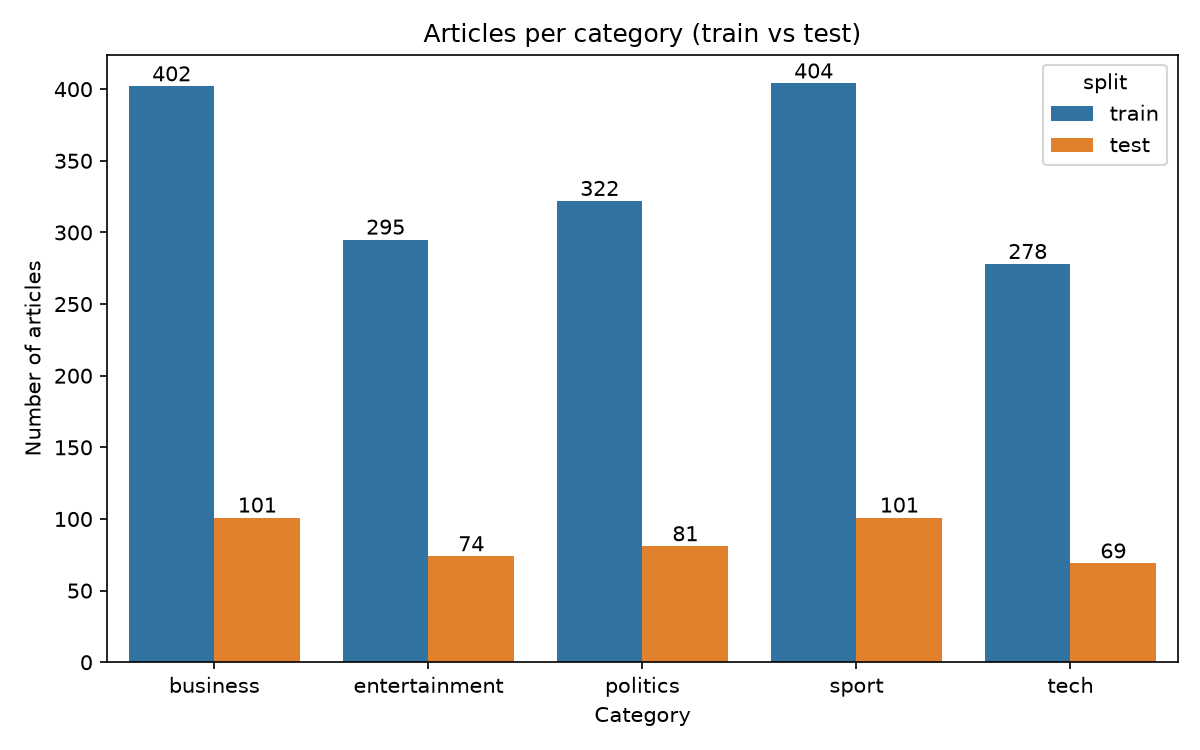
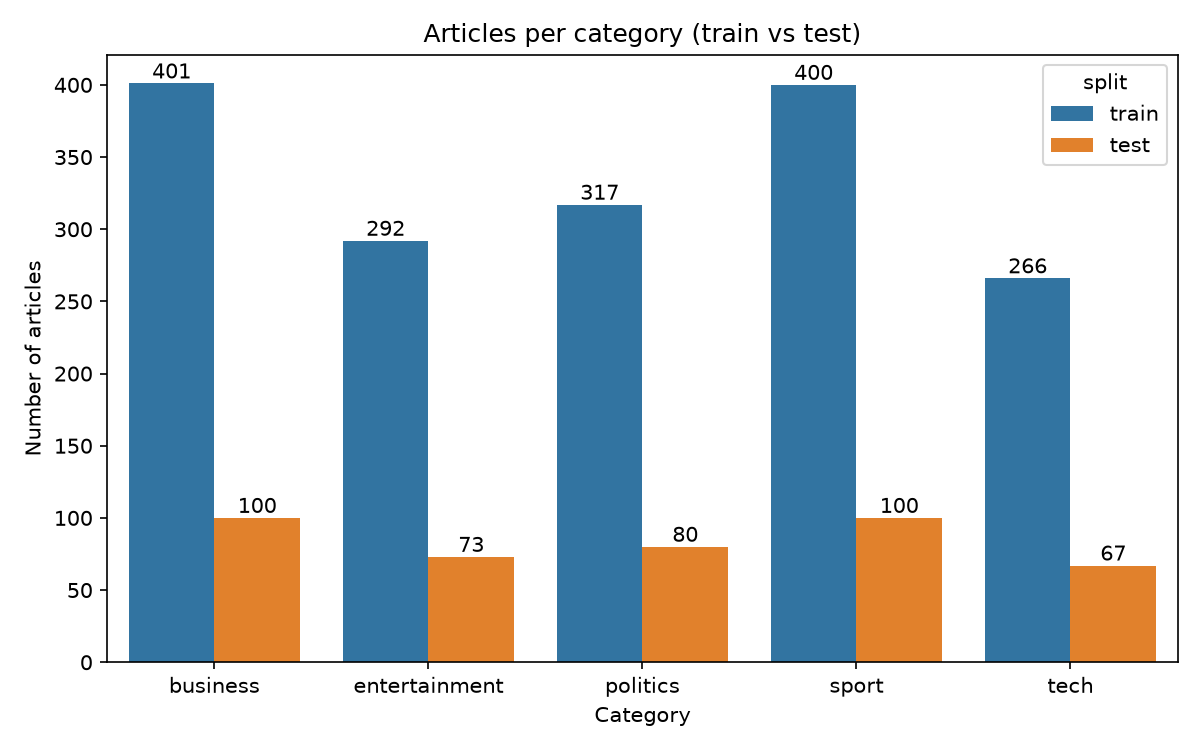
Step 2: Loader - also remove same-category, same-title near-duplicates
Rebuilt data/articles.csv, tokens.pkl and index.pkl (2,225 -> 2,096 articles)
and updated the numbers for Steps 2-5 in PROGRESS.md and viva_notes.md.

diff --git a/src/loader.py b/src/loader.py
@@ -45,13 +45,22 @@ def load_raw(data_dir: str = "data/bbc") -> pd.DataFrame:
 
 
 def remove_duplicates(df: pd.DataFrame) -> pd.DataFrame:
-    """Drop articles whose title and text exactly match an earlier article; print counts before and after."""
+    """Drop repeated articles, keeping the first copy; print counts per category before and after.
+
+    Two kinds of duplicate are removed:
+    1. exact copies: same title AND same text;
+    2. near-copies: same category AND same title. In the BBC data these are earlier/later versions of the
+       same story (an extra paragraph, reworded sentences), so exact matching alone misses them.
+    """
     before = df["category"].value_counts().sort_index()
-    deduped = df.drop_duplicates(subset=["title", "text"], keep="first").reset_index(drop=True)
+    exact = df.drop_duplicates(subset=["title", "text"], keep="first")
+    deduped = exact.drop_duplicates(subset=["category", "title"], keep="first").reset_index(drop=True)
     after = deduped["category"].value_counts().sort_index()
 
     counts = pd.DataFrame({"before": before, "after": after})
     counts["removed"] = counts["before"] - counts["after"]
+    counts["exact"] = counts["before"] - exact["category"].value_counts().sort_index()
+    counts["same_title"] = counts["removed"] - counts["exact"]
     counts.loc["TOTAL"] = counts.sum()
     print("Articles per category before and after removing duplicates:")
     print(counts.to_string())

diff --git a/tests/test_loader.py b/tests/test_loader.py
@@ -19,17 +19,19 @@ def test_columns(articles):
 
 def test_no_duplicates_remain(articles):
     assert not articles.duplicated(subset=["title", "text"]).any()
+    assert not articles.duplicated(subset=["category", "title"]).any()
 
 
 def test_remove_duplicates_keeps_first():
     df = pd.DataFrame({
-        "category": ["tech", "tech", "sport"],
-        "title": ["A", "A", "B"],
-        "text": ["same", "same", "other"],
+        "category": ["tech", "tech", "sport", "tech", "sport"],
+        "title": ["A", "A", "B", "A", "A"],
+        "text": ["same", "same", "other", "updated version", "different story"],
     })
     out = remove_duplicates(df)
-    assert len(out) == 2
-    assert list(out["title"]) == ["A", "B"]
+    # Row 1 is an exact copy, row 3 is a near-copy (same category + title); row 4 shares the title
+    # but is in another category, so it is kept.
+    assert list(out["text"]) == ["same", "other", "different story"]
 
 
 def test_doc_ids_unique_and_contiguous(articles):

diff --git a/PROGRESS.md b/PROGRESS.md
@@ -19,17 +19,17 @@ appending to reports/viva_notes.md and committing as "Step N: <name>".
   - `read_text_file(path: Path) -> str`: UTF-8 with latin-1 fallback
   - `split_title_and_text(content: str) -> tuple[str, str]`: first non-empty line is the title, the rest (stripped) is the text
   - `load_raw(data_dir: str = "data/bbc") -> pd.DataFrame`: columns category, title, text; folders and files sorted so the order is the same on every run
-  - `remove_duplicates(df: pd.DataFrame) -> pd.DataFrame`: drops exact (title, text) repeats, keeps the first; prints counts per category
+  - `remove_duplicates(df: pd.DataFrame) -> pd.DataFrame`: drops exact copies (same title + text), then near-copies (same category + title); keeps the first; prints counts per category
   - `add_split(df: pd.DataFrame) -> pd.DataFrame`: adds split = train/test (stratified 80/20, random_state=42)
   - `load_articles() -> pd.DataFrame`: reads `data/articles.csv` (all later steps use this)
   - `src/eda.py`: `plot_class_distribution(df, path) -> None`, `plot_doc_length(df, path) -> None`
 - **Results:**
-  - Duplicates removed: business 510→503 (−7), entertainment 386→369 (−17), politics 417→403 (−14), sport 511→505 (−6), tech 401→347 (−54); total 2,225→2,127 (−98).
-  - Split: train 1,701 / test 426. Per category (train/test): business 402/101, entertainment 295/74, politics 322/81, sport 404/101, tech 278/69.
-  - Words per article (whitespace count, title + text): min 89, median 331, mean 384, max 4,432.
-  - `data/articles.csv` columns: doc_id (0..2126), category, title, text, split.
+  - Duplicates removed (exact + same-title): business 510→501 (7+2), entertainment 386→365 (17+4), politics 417→397 (14+6), sport 511→500 (6+5), tech 401→333 (54+14); total 2,225→2,096 (98 exact + 31 same-title = 129).
+  - Split: train 1,676 / test 420. Per category (train/test): business 401/100, entertainment 292/73, politics 317/80, sport 400/100, tech 266/67.
+  - Words per article (whitespace count, title + text): min 89, median 330, mean 382, max 4,432.
+  - `data/articles.csv` columns: doc_id (0..2095), category, title, text, split.
   - Tests: 6 passed (`tests/test_loader.py`).
-- **Notes:** In this copy of the dataset, every file decoded as UTF-8, so the latin-1 fallback is kept only as a safety net. No duplicate appears in two different categories. Duplicates are removed *before* doc_id and the split are assigned, so ids have no gaps and no article can be in both train and test. The whitespace word count in `eda.py` is only for the length plot; it is not a tokenizer used for retrieval or classification. The tests read `data/articles.csv`, so run `python -m src.loader` before `pytest`.
+- **Notes:** In this copy of the dataset, every file decoded as UTF-8, so the latin-1 fallback is kept only as a safety net. No duplicate appears in two different categories. The same-category + same-title rule was added after Step 5 found near-copies in the search results (texts 44–99.95% similar, all checked by hand to be versions of the same story; 9 pairs had been split across train and test). Steps 2–5 outputs were rebuilt after this change. Duplicates are removed *before* doc_id and the split are assigned, so ids have no gaps and no article can be in both train and test. The whitespace word count in `eda.py` is only for the length plot; it is not a tokenizer used for retrieval or classification. The tests read `data/articles.csv`, so run `python -m src.loader` before `pytest`.
 
 ## Step 3: Preprocessing
 
@@ -40,10 +40,10 @@ appending to reports/viva_notes.md and committing as "Step N: <name>".
   - `tokenize_all() -> dict[int, list[str]]`: `preprocess(title + " " + text)` for every article, keyed by doc_id; saves `data/tokens.pkl`
   - `load_tokens() -> dict[int, list[str]]`: reads `data/tokens.pkl` (later steps use this)
 - **Results:**
-  - 2,127 articles tokenized; total 463,020 tokens.
-  - **Vocabulary size: 18,980 distinct stems.**
-  - **Average length: 217.7 tokens per article** (vs 384 raw whitespace words in Step 2).
-  - Top 20 stems: said 6930, year 3194, mr 2900, would 2472, also 2037, peopl 1896, us 1885, new 1877, one 1851, game 1620, time 1609, say 1519, use 1457, could 1442, last 1359, make 1347, first 1298, two 1235, govern 1227, like 1195.
+  - 2,096 articles tokenized; total 453,140 tokens.
+  - **Vocabulary size: 18,955 distinct stems.**
+  - **Average length: 216.2 tokens per article** (vs 382 raw whitespace words in Step 2).
+  - Top 20 stems: said 6788, year 3149, mr 2861, would 2414, also 1998, us 1866, peopl 1835, new 1829, one 1800, time 1570, game 1554, say 1480, could 1408, use 1384, last 1327, make 1320, first 1271, two 1209, govern 1207, go 1168.
   - Tests: 4 new, all 10 tests pass.
 - **Notes:** Stopwords are removed *before* stemming because the NLTK list holds whole words. "us" is not in the NLTK stopword list; here it is almost always the country "US", so keeping it is useful. Words like "said", "mr", "would" are very frequent but not stopwords; IDF (Step 4/5) will give them low weight. "U.K." becomes "u" + "k", which are dropped as one-letter tokens. `data/tokens.pkl` must be rebuilt if `preprocess()` ever changes.
 
@@ -59,10 +59,10 @@ appending to reports/viva_notes.md and committing as "Step N: <name>".
   - `boolean_and(self, query: str) -> set[int]`, `boolean_or(self, query: str) -> set[int]`, `boolean_not(self, query_a: str, query_b: str) -> set[int]` (= AND(a) − OR(b)); all run `preprocess()` on their input
   - `save(self, path: str = "models/index.pkl") -> None`, `InvertedIndex.load(path: str = "models/index.pkl") -> InvertedIndex` (classmethod)
 - **Results:**
-  - All 2,127 articles (train + test) indexed: N = 2,127, vocabulary 18,980 terms, 463,020 tokens, avgdl = 217.69.
-  - df("elect") = 228; first 10 postings (doc_id, tf): (6, 2), (34, 1), (75, 1), (100, 1), (101, 2), (105, 6), (106, 2), (120, 1), (133, 1), (135, 1).
-  - 303,945 postings entries in total, vs 2,127 × 18,980 ≈ 40.4 million cells in a full term-document matrix (only 0.75% non-zero). 7,833 terms occur in just one article.
-  - Boolean examples: "election AND labour" → 148 docs; "election OR labour" → 310; "election NOT labour" → 80 (148 + 80 = 228 = df("elect")).
+  - All 2,096 articles (train + test) indexed: N = 2,096, vocabulary 18,955 terms, 453,140 tokens, avgdl = 216.19.
+  - df("elect") = 222; first 10 postings (doc_id, tf): (6, 2), (34, 1), (75, 1), (100, 1), (101, 2), (105, 6), (106, 2), (120, 1), (133, 1), (135, 1).
+  - 298,012 postings entries in total, vs 2,096 × 18,955 ≈ 39.7 million cells in a full term-document matrix (only 0.75% non-zero). 7,999 terms occur in just one article.
+  - Boolean examples: "election AND labour" → 142 docs; "election OR labour" → 304; "election NOT labour" → 80 (142 + 80 = 222 = df("elect")).
   - No document has doc_norm = 0. Tests: 7 new, all 17 pass.
 - **Notes:** `save()` pickles the attribute dict (`self.__dict__`), and `load()` copies it into a new object. The toy corpus in `conftest.py` uses doc_ids 1, 2, 3 for D1, D2, D3; its tokens are already processed, so the Boolean tests use words that Porter stemming leaves unchanged ("share", "market", "cricket", "launch", "new"). Note that "apple" → "appl" and "iphone" → "iphon", so a raw query "apple" would *not* match the toy tokens. The index is built on all articles because search should be able to find any article; only Naïve Bayes needs the train/test split.
 
@@ -84,69 +84,69 @@ appending to reports/viva_notes.md and committing as "Step N: <name>".
 ```
 === Query: "interest rates bank" ===
 --- TF-IDF ---
-1.    0.3654  [business] Bank set to leave rates on hold  (doc 136)
-2.    0.3423  [business] Bank voted 8-1 for no rate change  (doc 150)
-3.    0.2867  [business] Australia rates at four year high  (doc 100)
-4.    0.2761  [business] House prices show slight increase  (doc 152)
-5.    0.2560  [business] Economy 'strong' in election year  (doc 213)
+1.    0.3659  [business] Bank set to leave rates on hold  (doc 136)
+2.    0.3422  [business] Bank voted 8-1 for no rate change  (doc 150)
+3.    0.2869  [business] Australia rates at four year high  (doc 100)
+4.    0.2764  [business] House prices show slight increase  (doc 152)
+5.    0.2549  [business] Economy 'strong' in election year  (doc 213)
 --- BM25 ---
-1.   13.5742  [business] Bank set to leave rates on hold  (doc 136)
-2.   13.3547  [business] Bank voted 8-1 for no rate change  (doc 150)
-3.   13.2601  [business] Bank holds interest rate at 4.75%  (doc 287)
-4.   13.0919  [business] UK interest rates held at 4.75%  (doc 431)
-5.   12.6446  [business] Australia rates at four year high  (doc 100)
+1.   13.5736  [business] Bank set to leave rates on hold  (doc 136)
+2.   13.3533  [business] Bank voted 8-1 for no rate change  (doc 150)
+3.   13.2564  [business] Bank holds interest rate at 4.75%  (doc 287)
+4.   13.0884  [business] UK interest rates held at 4.75%  (doc 430)
+5.   12.6377  [business] Australia rates at four year high  (doc 100)
 --- Unigram LM ---
-1.  -16.4822  [business] Bank holds interest rate at 4.75%  (doc 287)
-2.  -16.5958  [business] UK interest rates held at 4.75%  (doc 431)
-3.  -16.8817  [business] US interest rates increased to 2%  (doc 120)
-4.  -16.9315  [business] Bank opts to leave rates on hold  (doc 118)
-5.  -16.9736  [business] Bank voted 8-1 for no rate change  (doc 150)
+1.  -16.4796  [business] Bank holds interest rate at 4.75%  (doc 287)
+2.  -16.5927  [business] UK interest rates held at 4.75%  (doc 430)
+3.  -16.8768  [business] US interest rates increased to 2%  (doc 120)
+4.  -16.9265  [business] Bank opts to leave rates on hold  (doc 118)
+5.  -16.9725  [business] Bank voted 8-1 for no rate change  (doc 150)
 
 === Query: "chelsea premiership" ===
 --- TF-IDF ---
-1.    0.4481  [sport] Newcastle line up Babayaro  (doc 1549)
-2.    0.3831  [sport] Beckham relief as Real go through  (doc 1511)
-3.    0.3784  [sport] Ferguson rues failure to cut gap  (doc 1524)
-4.    0.3779  [sport] Gallas sees two-horse race  (doc 1481)
-5.    0.3759  [sport] Cudicini misses Carling Cup final  (doc 1446)
+1.    0.4519  [sport] Newcastle line up Babayaro  (doc 1535)
+2.    0.3866  [sport] Beckham relief as Real go through  (doc 1497)
+3.    0.3817  [sport] Ferguson rues failure to cut gap  (doc 1510)
+4.    0.3805  [sport] Gallas sees two-horse race  (doc 1468)
+5.    0.3792  [sport] Cudicini misses Carling Cup final  (doc 1434)
 --- BM25 ---
-1.   12.4249  [sport] Houllier praises Benitez regime  (doc 1500)
-2.   11.7240  [sport] Cup holders Man Utd visit Everton  (doc 1456)
-3.   11.3297  [sport] Newcastle line up Babayaro  (doc 1549)
-4.   11.0667  [sport] Ferguson rues failure to cut gap  (doc 1524)
-5.   11.0057  [sport] Thompson says Gerrard should stay  (doc 1449)
+1.   12.4593  [sport] Houllier praises Benitez regime  (doc 1487)
+2.   11.7562  [sport] Cup holders Man Utd visit Everton  (doc 1443)
+3.   11.3650  [sport] Newcastle line up Babayaro  (doc 1535)
+4.   11.0984  [sport] Ferguson rues failure to cut gap  (doc 1510)
+5.   11.0364  [sport] Thompson says Gerrard should stay  (doc 1437)
 --- Unigram LM ---
-1.  -12.3430  [sport] Houllier praises Benitez regime  (doc 1500)
-2.  -12.5500  [sport] Chelsea denied by James heroics  (doc 1411)
-3.  -12.8772  [sport] Chelsea hold Arsenal  (doc 1518)
-4.  -12.9086  [sport] Desailly backs Blues revenge trip  (doc 1453)
-5.  -12.9086  [sport] Desailly backs Blues revenge trip  (doc 1454)
+1.  -12.3481  [sport] Houllier praises Benitez regime  (doc 1487)
+2.  -12.5523  [sport] Chelsea denied by James heroics  (doc 1399)
+3.  -12.8788  [sport] Chelsea hold Arsenal  (doc 1504)
+4.  -12.9104  [sport] Desailly backs Blues revenge trip  (doc 1441)
+5.  -13.0953  [sport] Cup holders Man Utd visit Everton  (doc 1443)
 
 === Query: "mobile phone games" ===
 --- TF-IDF ---
-1.    0.3978  [tech] Home phones face unclear future  (doc 1886)
-2.    0.3641  [tech] Half of UK's mobiles 'go online'  (doc 2030)
-3.    0.3541  [tech] Mobile gig aims to rock 3G  (doc 1951)
-4.    0.3407  [business] Brussels raps mobile call charges  (doc 112)
-5.    0.3388  [tech] Mobile gaming takes off in India  (doc 1961)
+1.    0.4089  [tech] Home phones face unclear future  (doc 1869)
+2.    0.3730  [tech] Half of UK's mobiles 'go online'  (doc 2011)
+3.    0.3644  [tech] Mobile gig aims to rock 3G  (doc 1934)
+4.    0.3519  [business] Brussels raps mobile call charges  (doc 112)
+5.    0.3480  [tech] Mobile gaming takes off in India  (doc 1944)
 --- BM25 ---
-1.   14.4893  [tech] Moving mobile improves golf swing  (doc 1832)
-2.   14.1704  [tech] Mobile audio enters new dimension  (doc 2067)
-3.   14.0663  [tech] New consoles promise big problems  (doc 2122)
-4.   14.0046  [tech] Cheaper chip for mobiles  (doc 1828)
-5.   13.8490  [tech] Mobile gaming takes off in India  (doc 1961)
+1.   14.6889  [tech] Moving mobile improves golf swing  (doc 1815)
+2.   14.3560  [tech] Mobile audio enters new dimension  (doc 2046)
+3.   14.2427  [tech] New consoles promise big problems  (doc 2091)
+4.   14.1967  [tech] Cheaper chip for mobiles  (doc 1811)
+5.   14.0275  [tech] Mobile gaming takes off in India  (doc 1944)
 --- Unigram LM ---
-1.  -14.7859  [tech] New consoles promise big problems  (doc 2122)
-2.  -15.2696  [tech] Mobile games come of age  (doc 1872)
-3.  -15.2900  [tech] Mobile games come of age  (doc 2062)
-4.  -15.3016  [tech] 'Friends fear' with lost mobiles  (doc 1846)
-5.  -15.4548  [tech] Finding new homes for old phones  (doc 1796)
+1.  -14.8233  [tech] New consoles promise big problems  (doc 2091)
+2.  -15.3169  [tech] Mobile games come of age  (doc 1855)
+3.  -15.3442  [tech] 'Friends fear' with lost mobiles  (doc 1829)
+4.  -15.5005  [tech] Finding new homes for old phones  (doc 1779)
+5.  -15.6102  [tech] Mobile music challenges 'iPod age'  (doc 2083)
 ```
 - **Notes:**
   - TF-IDF divides by the document norm only, not by the query norm. The query norm is the same for every document of one query, so the ranking is identical to full cosine. Full cosine on the toy example would give D1 0.60 / D2 0.07.
   - Only candidates (docs containing at least one query term) are scored. LM query terms with cf = 0 are skipped. Repeated query terms count more than once in BM25 and LM; TF-IDF uses `1 + log10 qtf`.
   - The toy BM25 test uses k1=1.2; the project default is k1=1.5.
-  - **Near-duplicates:** the demo shows the same title twice ("Desailly backs Blues revenge trip" 1453/1454; "Mobile games come of age" 1872/2062). These texts differ by a paragraph or by whitespace (98.5–99.95% similar), so the exact-match de-duplication in Step 2 kept both. 31 titles are shared by 62 articles; none crosses categories, but 9 pairs are split across train/test. Not changed in this step; still open.
+  - **Near-duplicates (resolved):** the first demo run showed the same title twice ("Desailly backs Blues revenge trip", "Mobile games come of age"): near-copies that the exact-match rule in Step 2 missed (31 pairs, 9 split across train/test). Step 2 now also drops same-category + same-title repeats; Steps 2–5 outputs were rebuilt and the demo above is the rebuilt run (no repeated titles).
 
 ## Step 6: Naïve Bayes
 

diff --git a/reports/viva_notes.md b/reports/viva_notes.md
@@ -8,8 +8,15 @@ duplicates, numbers the articles (`doc_id` 0 to 2,126), marks each one as `train
 to `data/articles.csv`. Every later step reads that CSV through `load_articles()`, so all steps use the same
 articles and the same split.
 
-**What we found.** The BBC dataset has 2,225 files, but 98 of them repeat an earlier article word for word (same
-title and same text). Most are in tech (54). After removing them, 2,127 unique articles remain.
+**What we found.** The BBC dataset has 2,225 files, but 129 of them repeat an earlier article, so 2,096 unique
+articles remain. Duplicates are removed in two passes:
+1. **Exact copies** (same title and same text): 98 articles, most of them in tech (54).
+2. **Near-copies** (same category and same title): 31 more. These are earlier and later versions of the same
+   news story. For example, one says Glenn Hoddle "will be unveiled" as Wolves manager and the other says he
+   "has been unveiled", or one version has an extra paragraph. Their texts differ, so the exact check misses
+   them, but they are the same article for our purposes. We first found them in Step 5, when the same title
+   appeared twice in the search results, and 9 of the pairs had one copy in train and one in test. We checked
+   all 31 pairs by hand before removing them. A shared title in a *different* category is not treated as a duplicate.
 
 **Why duplicates must be removed before splitting.**
 - *Data leakage.* If an article and its copy are split at random, one copy can land in the training set and
@@ -26,7 +33,7 @@ title and same text). Most are in tech (54). After removing them, 2,127 unique a
 **Why a stratified 80/20 split.** "Stratified" means each category is split 80/20 separately, so train and
 test have the same category proportions as the whole dataset (for example, tech is about 16% of both).
 `random_state=42` fixes the random shuffle, so anyone who reruns the code gets exactly the same split.
-Result: 1,701 training and 426 test articles, with every category in both.
+Result: 1,676 training and 420 test articles, with every category in both.
 
 **Why the UTF-8 / latin-1 fallback.** Some copies of the BBC files contain bytes that are not valid UTF-8, so
 reading them as UTF-8 would crash. latin-1 can decode any byte, so it is a safe fallback. (In our copy, every
@@ -54,8 +61,8 @@ All text in the project, both articles and search queries, goes through one func
 
 Stopwords are removed before stemming because the NLTK list contains whole words, not stems.
 
-**Results on our 2,127 articles:** 463,020 tokens in total, 217.7 tokens per article on average (down from about
-384 raw words), and a vocabulary of 18,980 distinct stems. The most frequent stems are "said", "year", "mr",
+**Results on our 2,096 articles:** 453,140 tokens in total, 216.2 tokens per article on average (down from about
+382 raw words), and a vocabulary of 18,955 distinct stems. The most frequent stems are "said", "year", "mr",
 "would". They are not on the stopword list, but IDF will give them a low weight later because they appear in
 most documents.
 
@@ -81,11 +88,11 @@ words in each article ("article → words"), it lists, for each word, the articl
 
 Alongside the postings it stores the numbers the ranking formulas need:
 - `df(term)`, the **document frequency**: how many articles contain the term (the length of its postings list).
-  "elect" has df = 228. Rare terms (low df) are better at telling articles apart, which is what IDF measures.
+  "elect" has df = 222. Rare terms (low df) are better at telling articles apart, which is what IDF measures.
 - `cf[term]`, the **collection frequency**: how many times the term occurs in the whole collection. The language
   model uses it as the "background" probability of a word.
-- `doc_len[doc_id]` (tokens per article), `N` (2,127 articles), `total_tokens` (463,020) and `avgdl`
-  (217.7 tokens). BM25 uses these to treat long and short articles fairly.
+- `doc_len[doc_id]` (tokens per article), `N` (2,096 articles), `total_tokens` (453,140) and `avgdl`
+  (216.2 tokens). BM25 uses these to treat long and short articles fairly.
 - `doc_norm[doc_id]`, the length of each article's TF-IDF vector:
   `sqrt( Σ ((1 + log10 tf) · log10(N/df))² )`. TF-IDF cosine similarity divides by this number. It never
   changes, so we compute it once at build time rather than for every query.
@@ -98,17 +105,17 @@ D3 = india win cricket match match. Then `postings["apple"] = {D1: 1, D2: 1}` so
 `sqrt(log10(3/2)² + 3 · log10(3)²) ≈ 0.845`.
 
 **Why it is faster than scanning every article.** Without an index, answering "election" means reading all
-2,127 articles (about 463,000 words) and checking each one. With the index we do one dictionary lookup,
-`postings["elect"]`, and get the 228 matching articles immediately. The work depends on how many articles
+2,096 articles (about 453,000 words) and checking each one. With the index we do one dictionary lookup,
+`postings["elect"]`, and get the 222 matching articles immediately. The work depends on how many articles
 contain the query words, not on the size of the whole collection. Most words are rare: in a full
-term-by-article table (18,980 × 2,127 ≈ 40 million cells), only 303,945 cells (0.75%) are non-zero. The index
+term-by-article table (18,955 × 2,096 ≈ 40 million cells), only 298,012 cells (0.75%) are non-zero. The index
 stores just those, so it is also much smaller. The rankers in Step 5 use `candidates()` to score only the
 articles that contain at least one query term, and skip the rest.
 
 **Boolean search.** Each query is passed through `preprocess()` first, so it matches the stems in the index.
-- AND = intersection of postings sets: "election labour" → 148 articles containing both words.
-- OR = union: 310 articles containing either word.
-- NOT = AND(a) minus OR(b): "election" but not "labour" → 80 articles (148 + 80 = 228, all articles with "elect").
+- AND = intersection of postings sets: "election labour" → 142 articles containing both words.
+- OR = union: 304 articles containing either word.
+- NOT = AND(a) minus OR(b): "election" but not "labour" → 80 articles (142 + 80 = 222, all articles with "elect").
 Boolean search only says yes or no; it cannot rank results. That is why we need TF-IDF, BM25 and the language
 model next.
 
@@ -182,7 +189,7 @@ D1: ln(0.9 × 1/4 + 0.1 × 2/13) + ln(0.9 × 1/4 + 0.1 × 1/13) = ln 0.2404 + ln
 D2 has no "iphone": ln 0.2404 + ln(0 + 0.1 × 1/13) = −1.426 − 4.868 = **−6.293**. The missing word costs a lot
 but does not make the score −∞.
 (With Dirichlet μ = 2000 the toy scores are almost equal, −4.431 vs −4.438, because μ is huge compared with
-4-word documents. On real articles, about 218 tokens long, μ = 2000 is a sensible size.)
+4-word documents. On real articles, about 216 tokens long, μ = 2000 is a sensible size.)
 Query words that never occur anywhere (cf = 0) are skipped, since they would have probability 0 everywhere.
 
 ### Why BM25 usually beats plain TF-IDF
